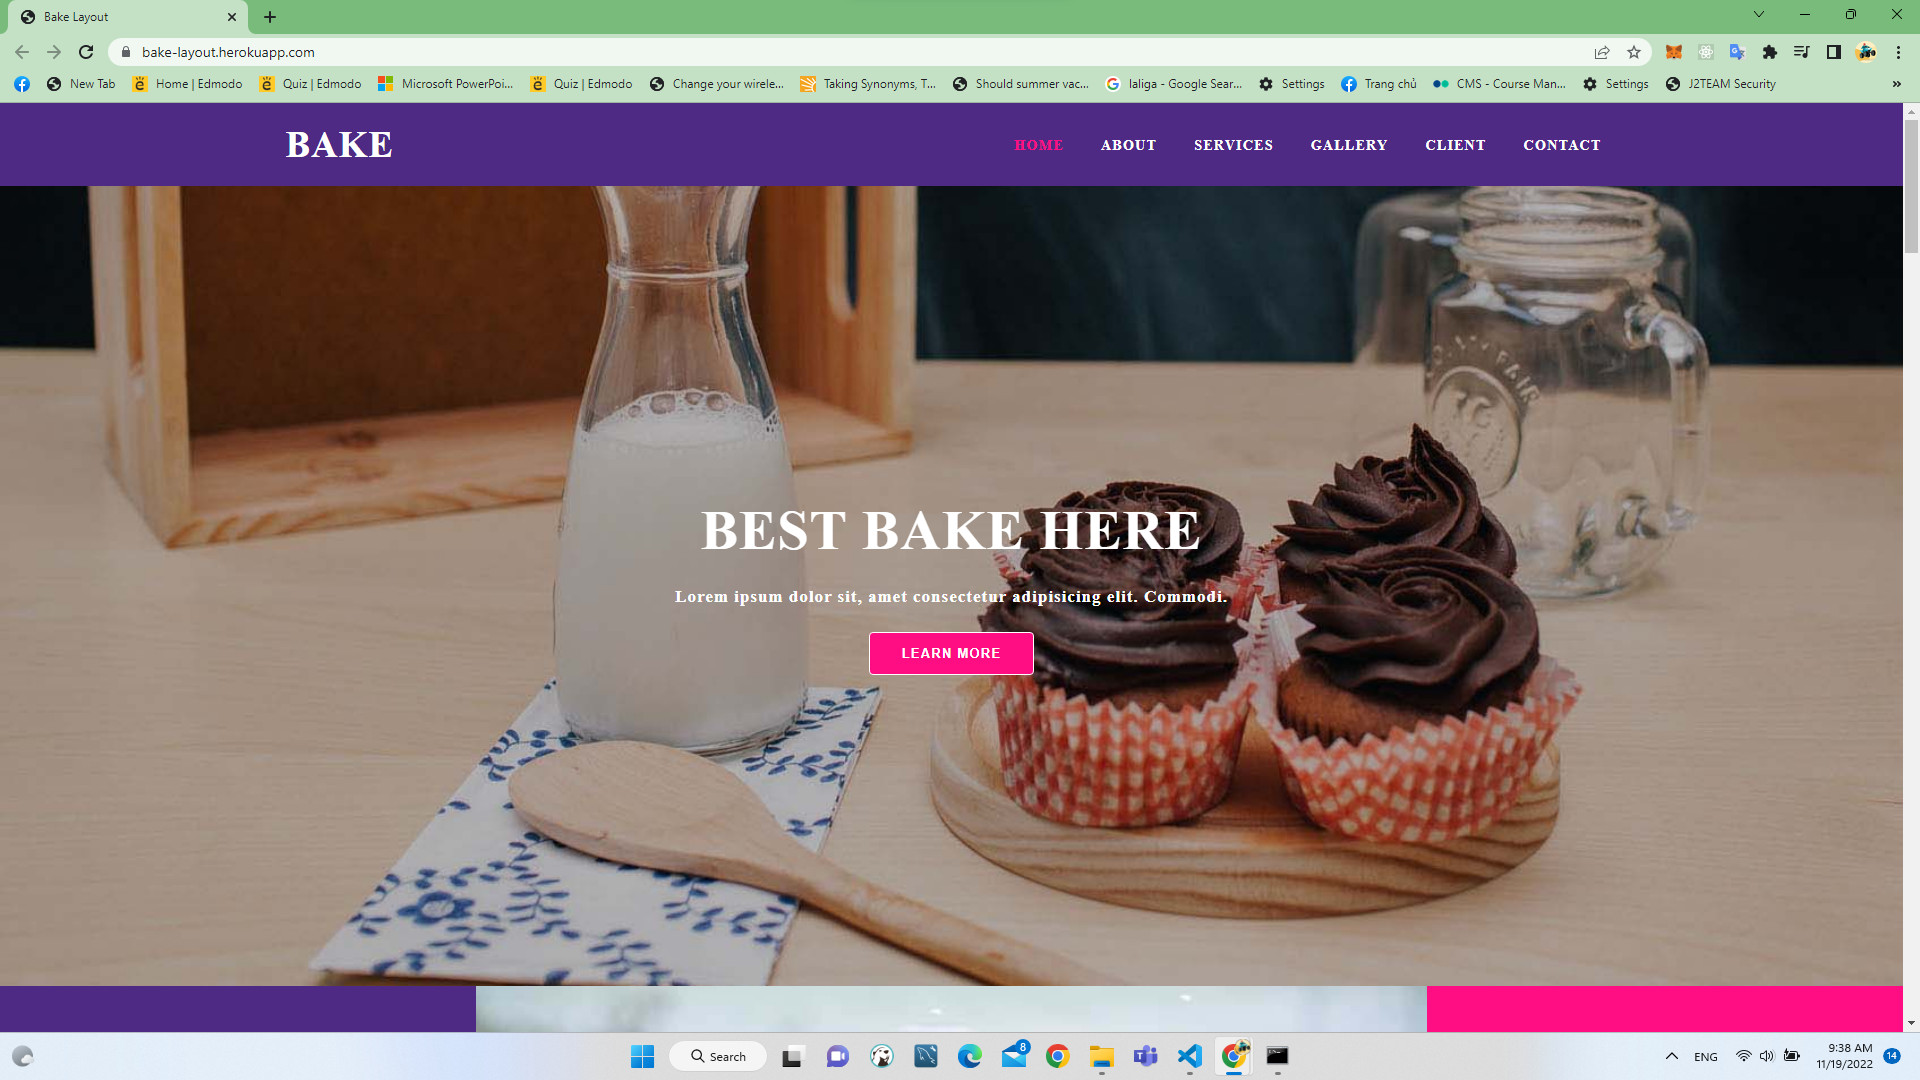
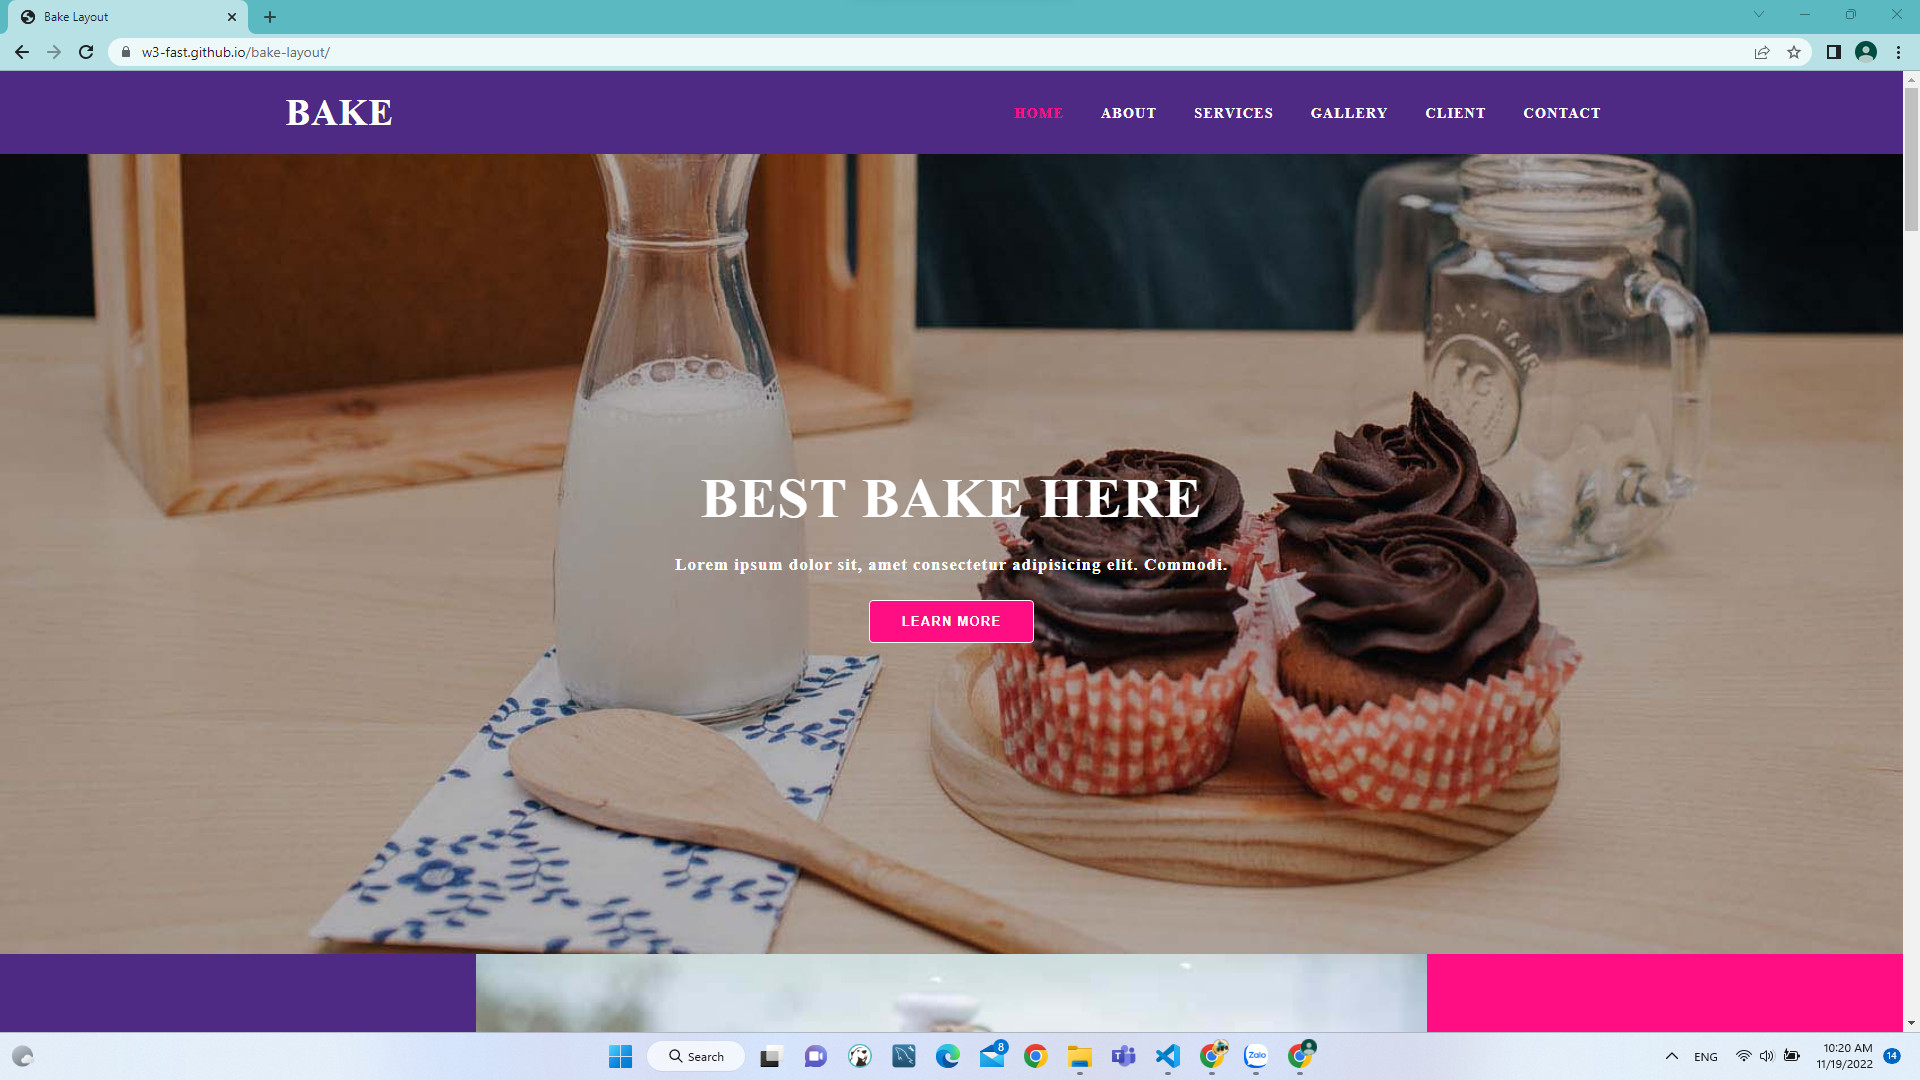
Update

diff --git a/My Resume/src/app/my-infos.ts b/My Resume/src/app/my-infos.ts
@@ -25,8 +25,8 @@ const HTML_CSS = [
     type: 'HTML-CSS',
     name: 'Bake Layout',
     imgUrl:
-      'https://res.cloudinary.com/dtjin3cf6/image/upload/v1668825578/My%20Projects/My%20Resume/My%20Projects/HTML-CSS/bake-layout_ptljcs.jpg',
-    linkWeb: 'https://bake-layout.herokuapp.com/',
+      'https://res.cloudinary.com/dtjin3cf6/image/upload/v1668828124/My%20Projects/My%20Resume/My%20Projects/HTML-CSS/bake-layout_u7rdke.jpg',
+    linkWeb: 'https://w3-fast.github.io/bake-layout/',
     linkGithub:
       'https://github.com/quanghv2000/Cyberlearn/tree/main/HTML-CSS/Course%201%20-%20HTML%20-%20CSS%2C%20HTML5%20-%20CSS3/Bake_Layout',
     description: 'HTML-CSS - Bake Layout',
